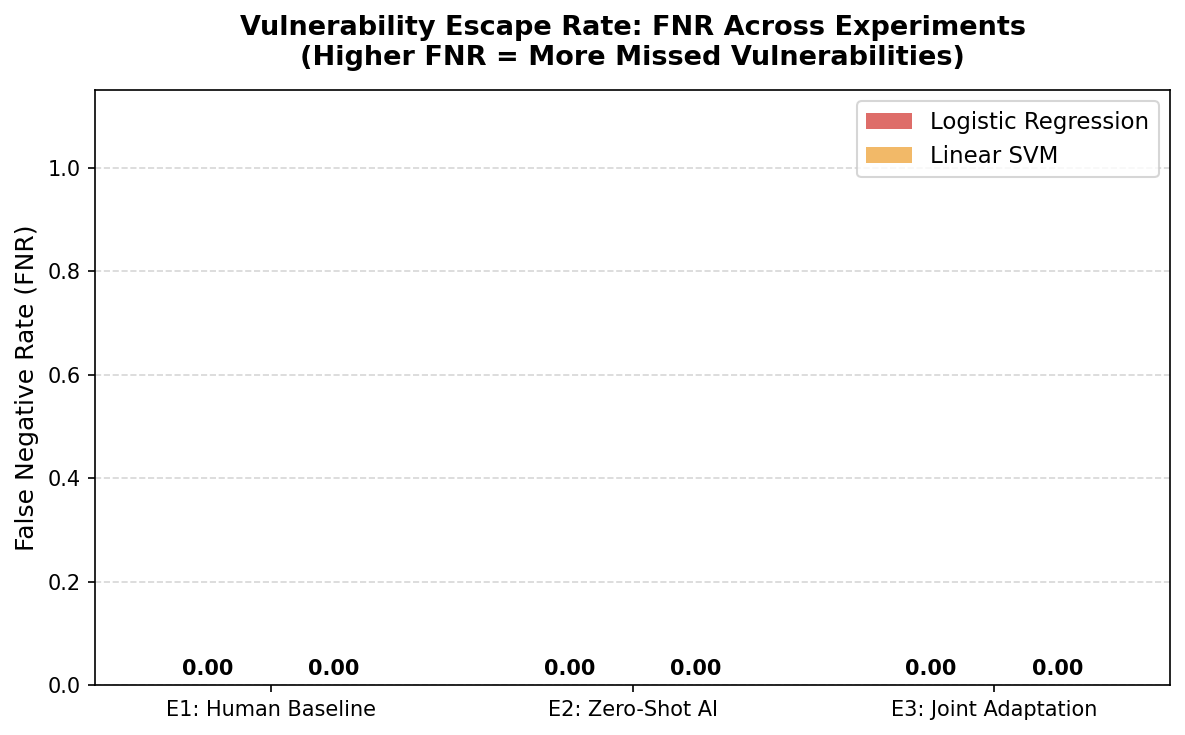
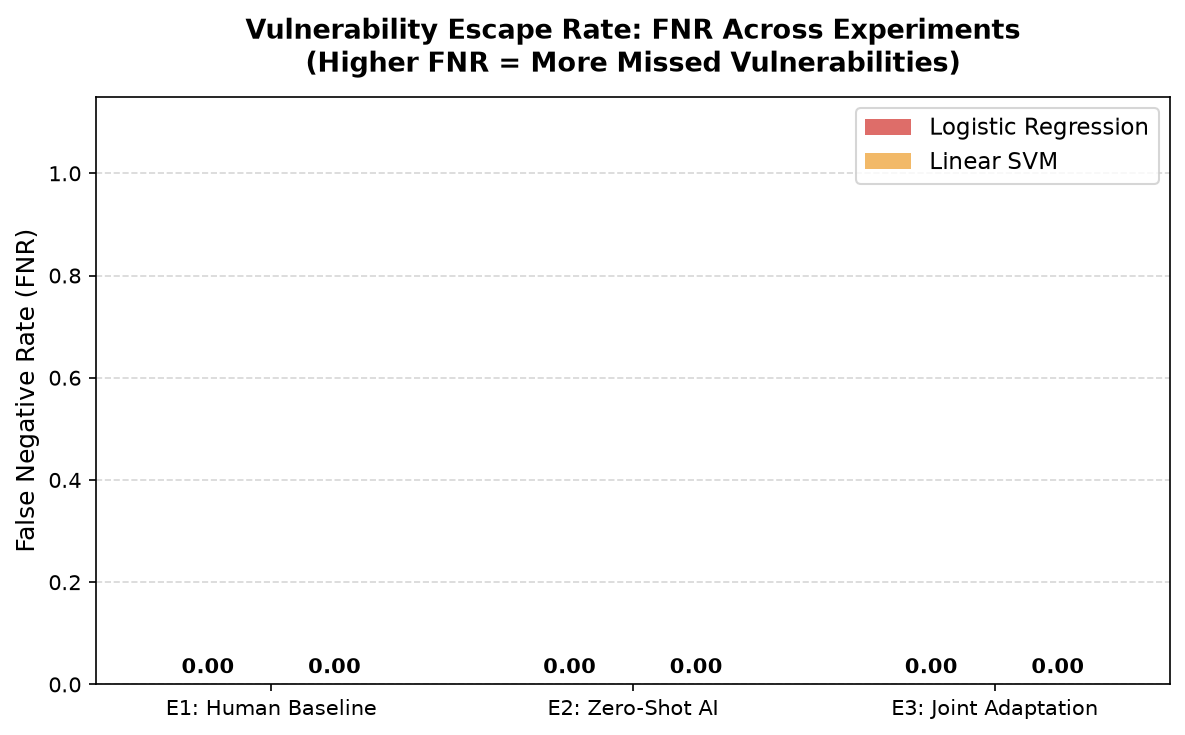
chore(eval): refresh local reports, figures, and dataset pipeline in nlp_gpu

diff --git a/datasets/reports/CROSS_DATASET_EVALUATION_REPORT.md b/datasets/reports/CROSS_DATASET_EVALUATION_REPORT.md
@@ -8,7 +8,6 @@ against AI-generated and AI-assisted C/C++ code (LLMVul).
 ### Experiment Maturity & Status Breakdown:
 | Category | Experiments | Scope & Description |
 | :--- | :--- | :--- |
-| **Completed Experiments (Full Scale)** | *None* | Awaiting full-scale multi-gigabyte dataset execution on GPU cluster / Google Colab. |
 | **Smoke Tests (Pipeline Verification)** | **E1, E2, E3** | Local pipeline validation on curated function cohorts ($N=2$ to $4$ test samples). Validates zero vectorizer leakage, comment stripping, and metric computation mechanics. |
 | **Incomplete Experiments** | **E4 (AI-Native)** | Skipped due to 1-sample class collapse ($N_{train}=1$, label=1; 0 safe samples). Requires multi-repository stratified cohort. |
 | **Experiments Awaiting Full Scale** | **E1–E4 (Full Benchmarks)** | Full-scale training on complete CodeXGLUE (27,318 functions) and LLMVul (226 repositories) on high-memory GPU runtimes. |
@@ -31,7 +30,7 @@ against AI-generated and AI-assisted C/C++ code (LLMVul).
 | **E2_ZeroShot_AI_Transfer** | Linear SVM | **Smoke Test** | 4 | 4 | 1.0000 | 1.0000 | 1.0000 | **1.0000** | **0.0000** | 1.0 |
 | **E3_Joint_Adaptation** | Logistic Regression | **Smoke Test** | 5 | 3 | 1.0000 | 1.0000 | 1.0000 | **1.0000** | **0.0000** | 1.0 |
 | **E3_Joint_Adaptation** | Linear SVM | **Smoke Test** | 5 | 3 | 1.0000 | 1.0000 | 1.0000 | **1.0000** | **0.0000** | 1.0 |
-| **E4_AI_Native** | *All Models* | **Incomplete / Awaiting Full Data** | 1 | 3 | — | — | — | — | — | *Skipped (insufficient class diversity)* |
+| **E4_AI_Native** | *All Models* | **Incomplete / Awaiting Full Data** | 1 | 3 | — | — | — | — | — | *Skipped (insufficient_class_diversity_in_ai_train)* |
 
 ---
 

diff --git a/datasets/reports/PREPROCESSING_REPORT.md b/datasets/reports/PREPROCESSING_REPORT.md
@@ -12,9 +12,9 @@ applying any sequence bounds, allowing precise quantification of truncation expo
 
 | Dataset | Total Samples | Min | Max | Mean | Median | P90 | P95 | P99 | Exceeding 512 (%) | Exceeding 256 (%) |
 | :--- | :--- | :--- | :--- | :--- | :--- | :--- | :--- | :--- | :--- | :--- |
-| **DEVIGN** | 8 | 44 | 94 | 58.88 | 55.5 | 73.7 | 83.85 | 91.97 | **0.0%** | 0.0% |
-| **LLMVUL** | 4 | 54 | 61 | 58.75 | 60.0 | 61.0 | 61.0 | 61.0 | **0.0%** | 0.0% |
-| **SECODEPLT** | 4 | 31 | 54 | 44.5 | 46.5 | 53.4 | 53.7 | 53.94 | **0.0%** | 0.0% |
+| **DEVIGN** | 8 | 59 | 139 | 83.5 | 78.0 | 108.9 | 123.95 | 135.99 | **0.0%** | 0.0% |
+| **LLMVUL** | 4 | 84 | 114 | 92.75 | 86.5 | 106.2 | 110.1 | 113.22 | **0.0%** | 0.0% |
+| **SECODEPLT** | 4 | 56 | 83 | 71.5 | 73.5 | 81.2 | 82.1 | 82.82 | **0.0%** | 0.0% |
 
 ---
 
